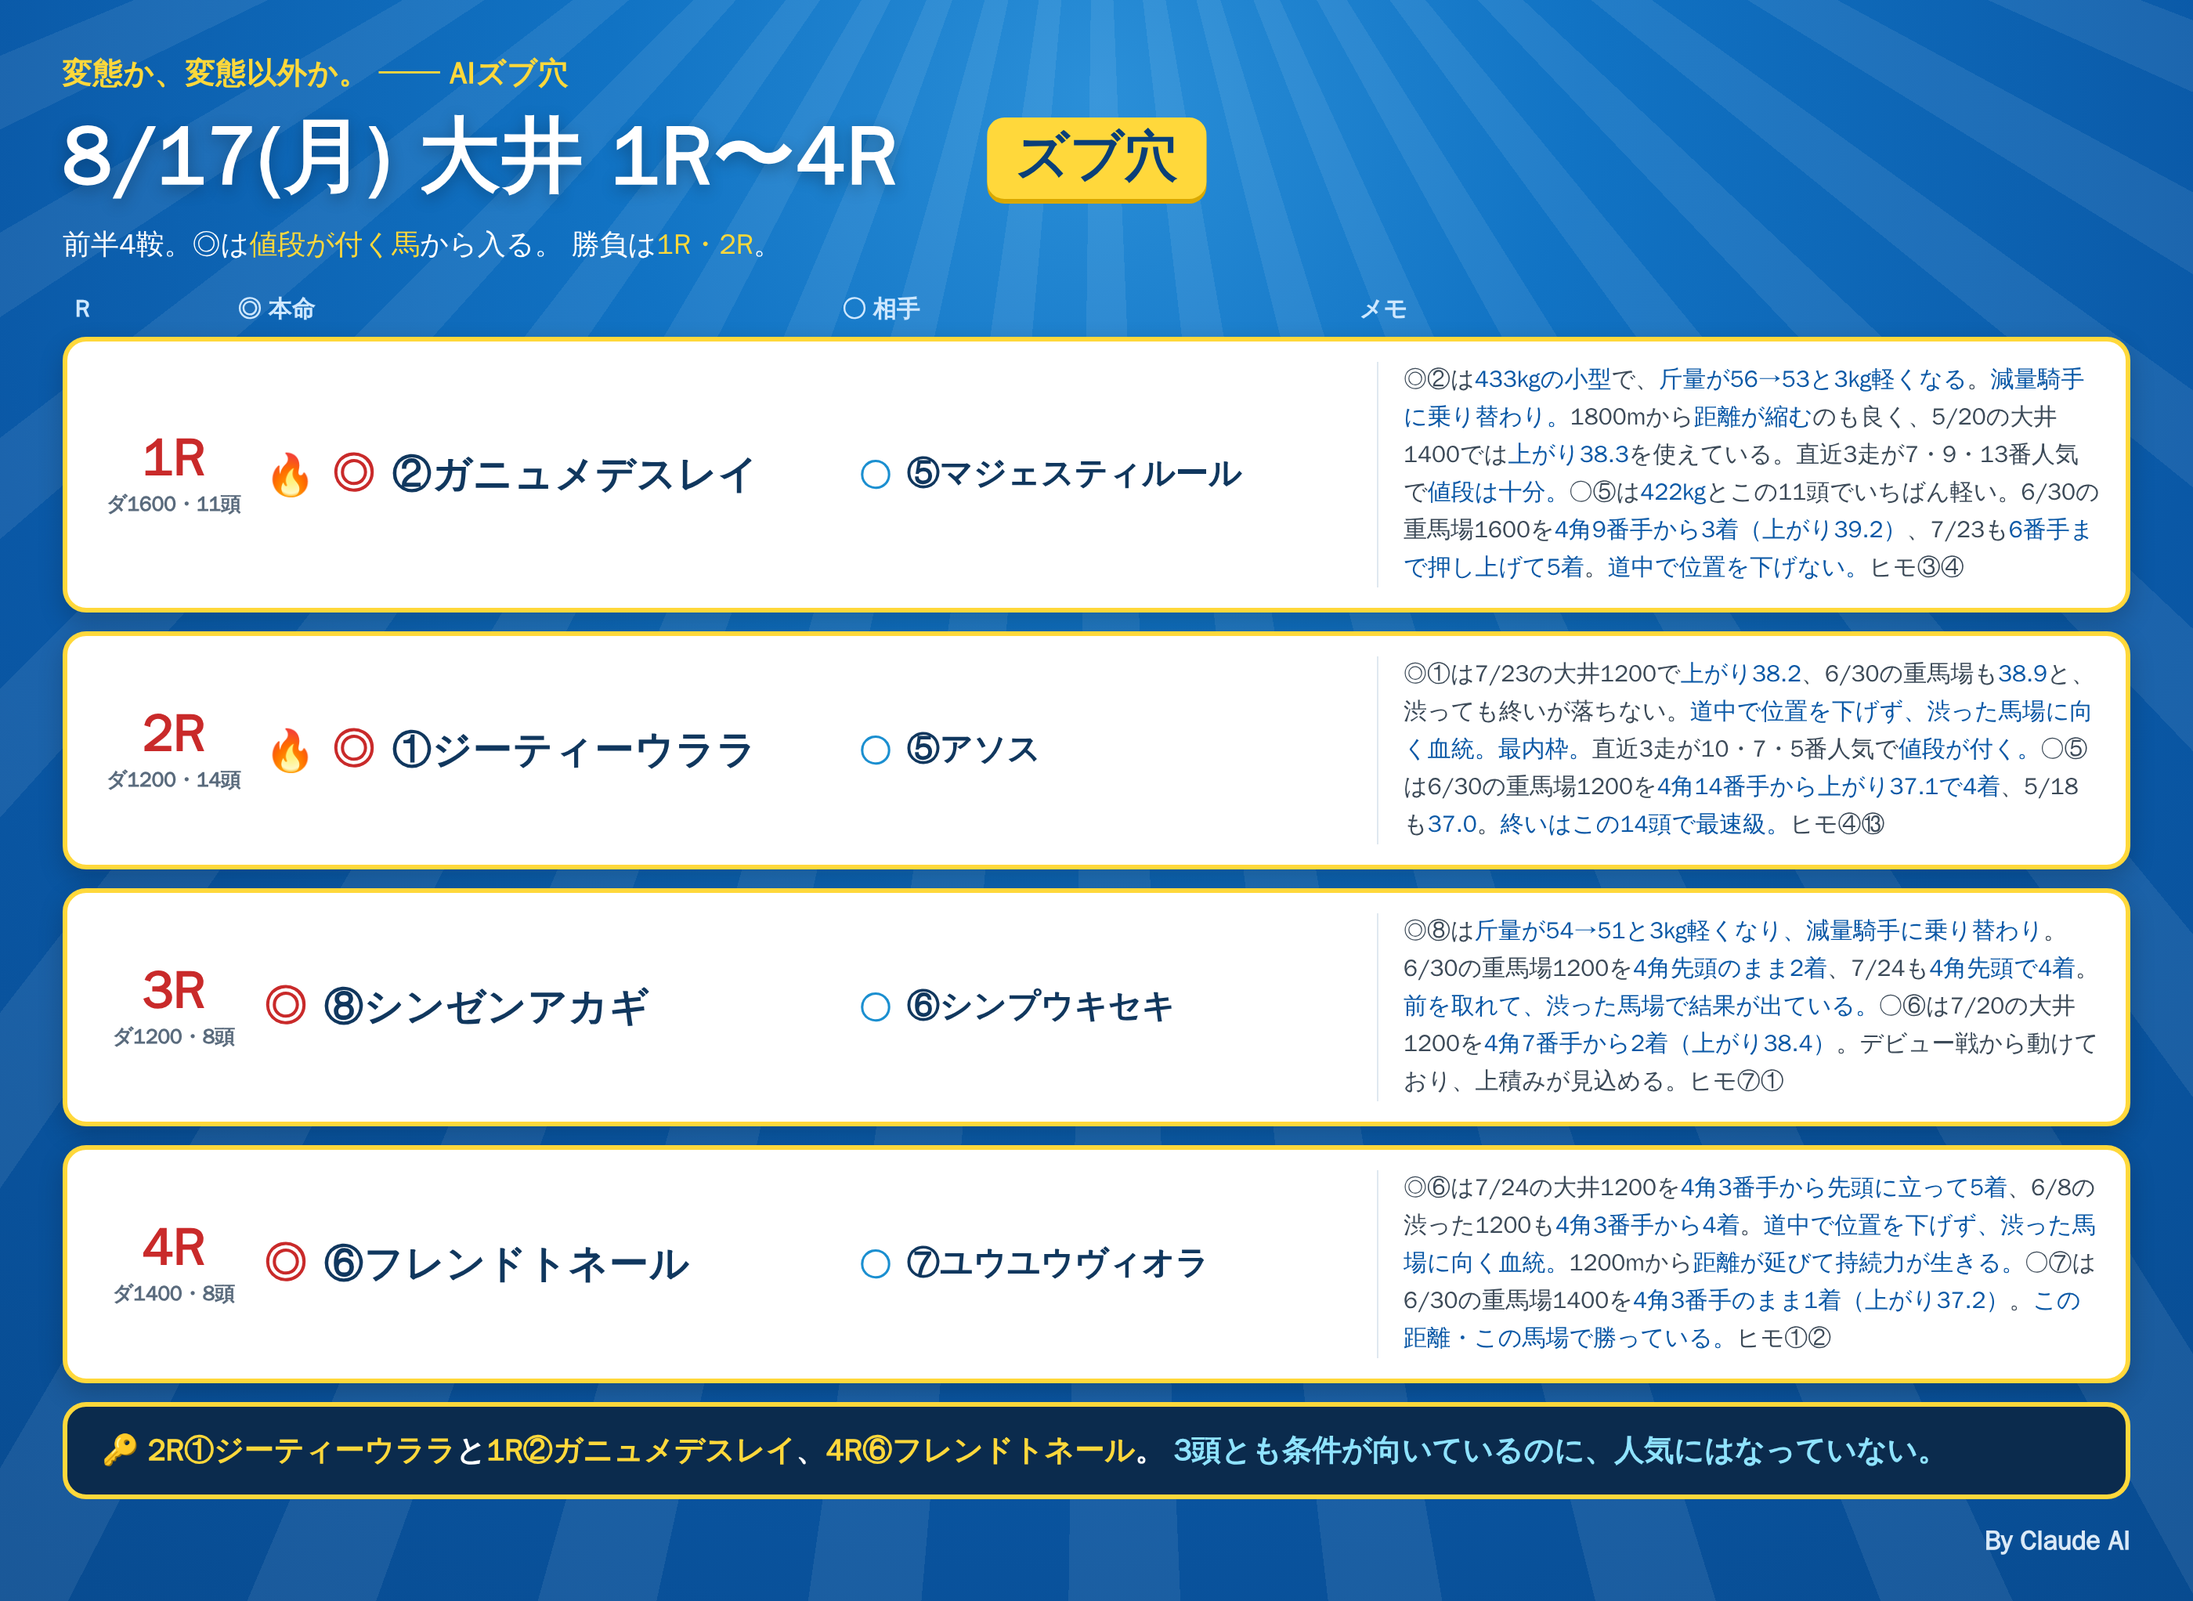
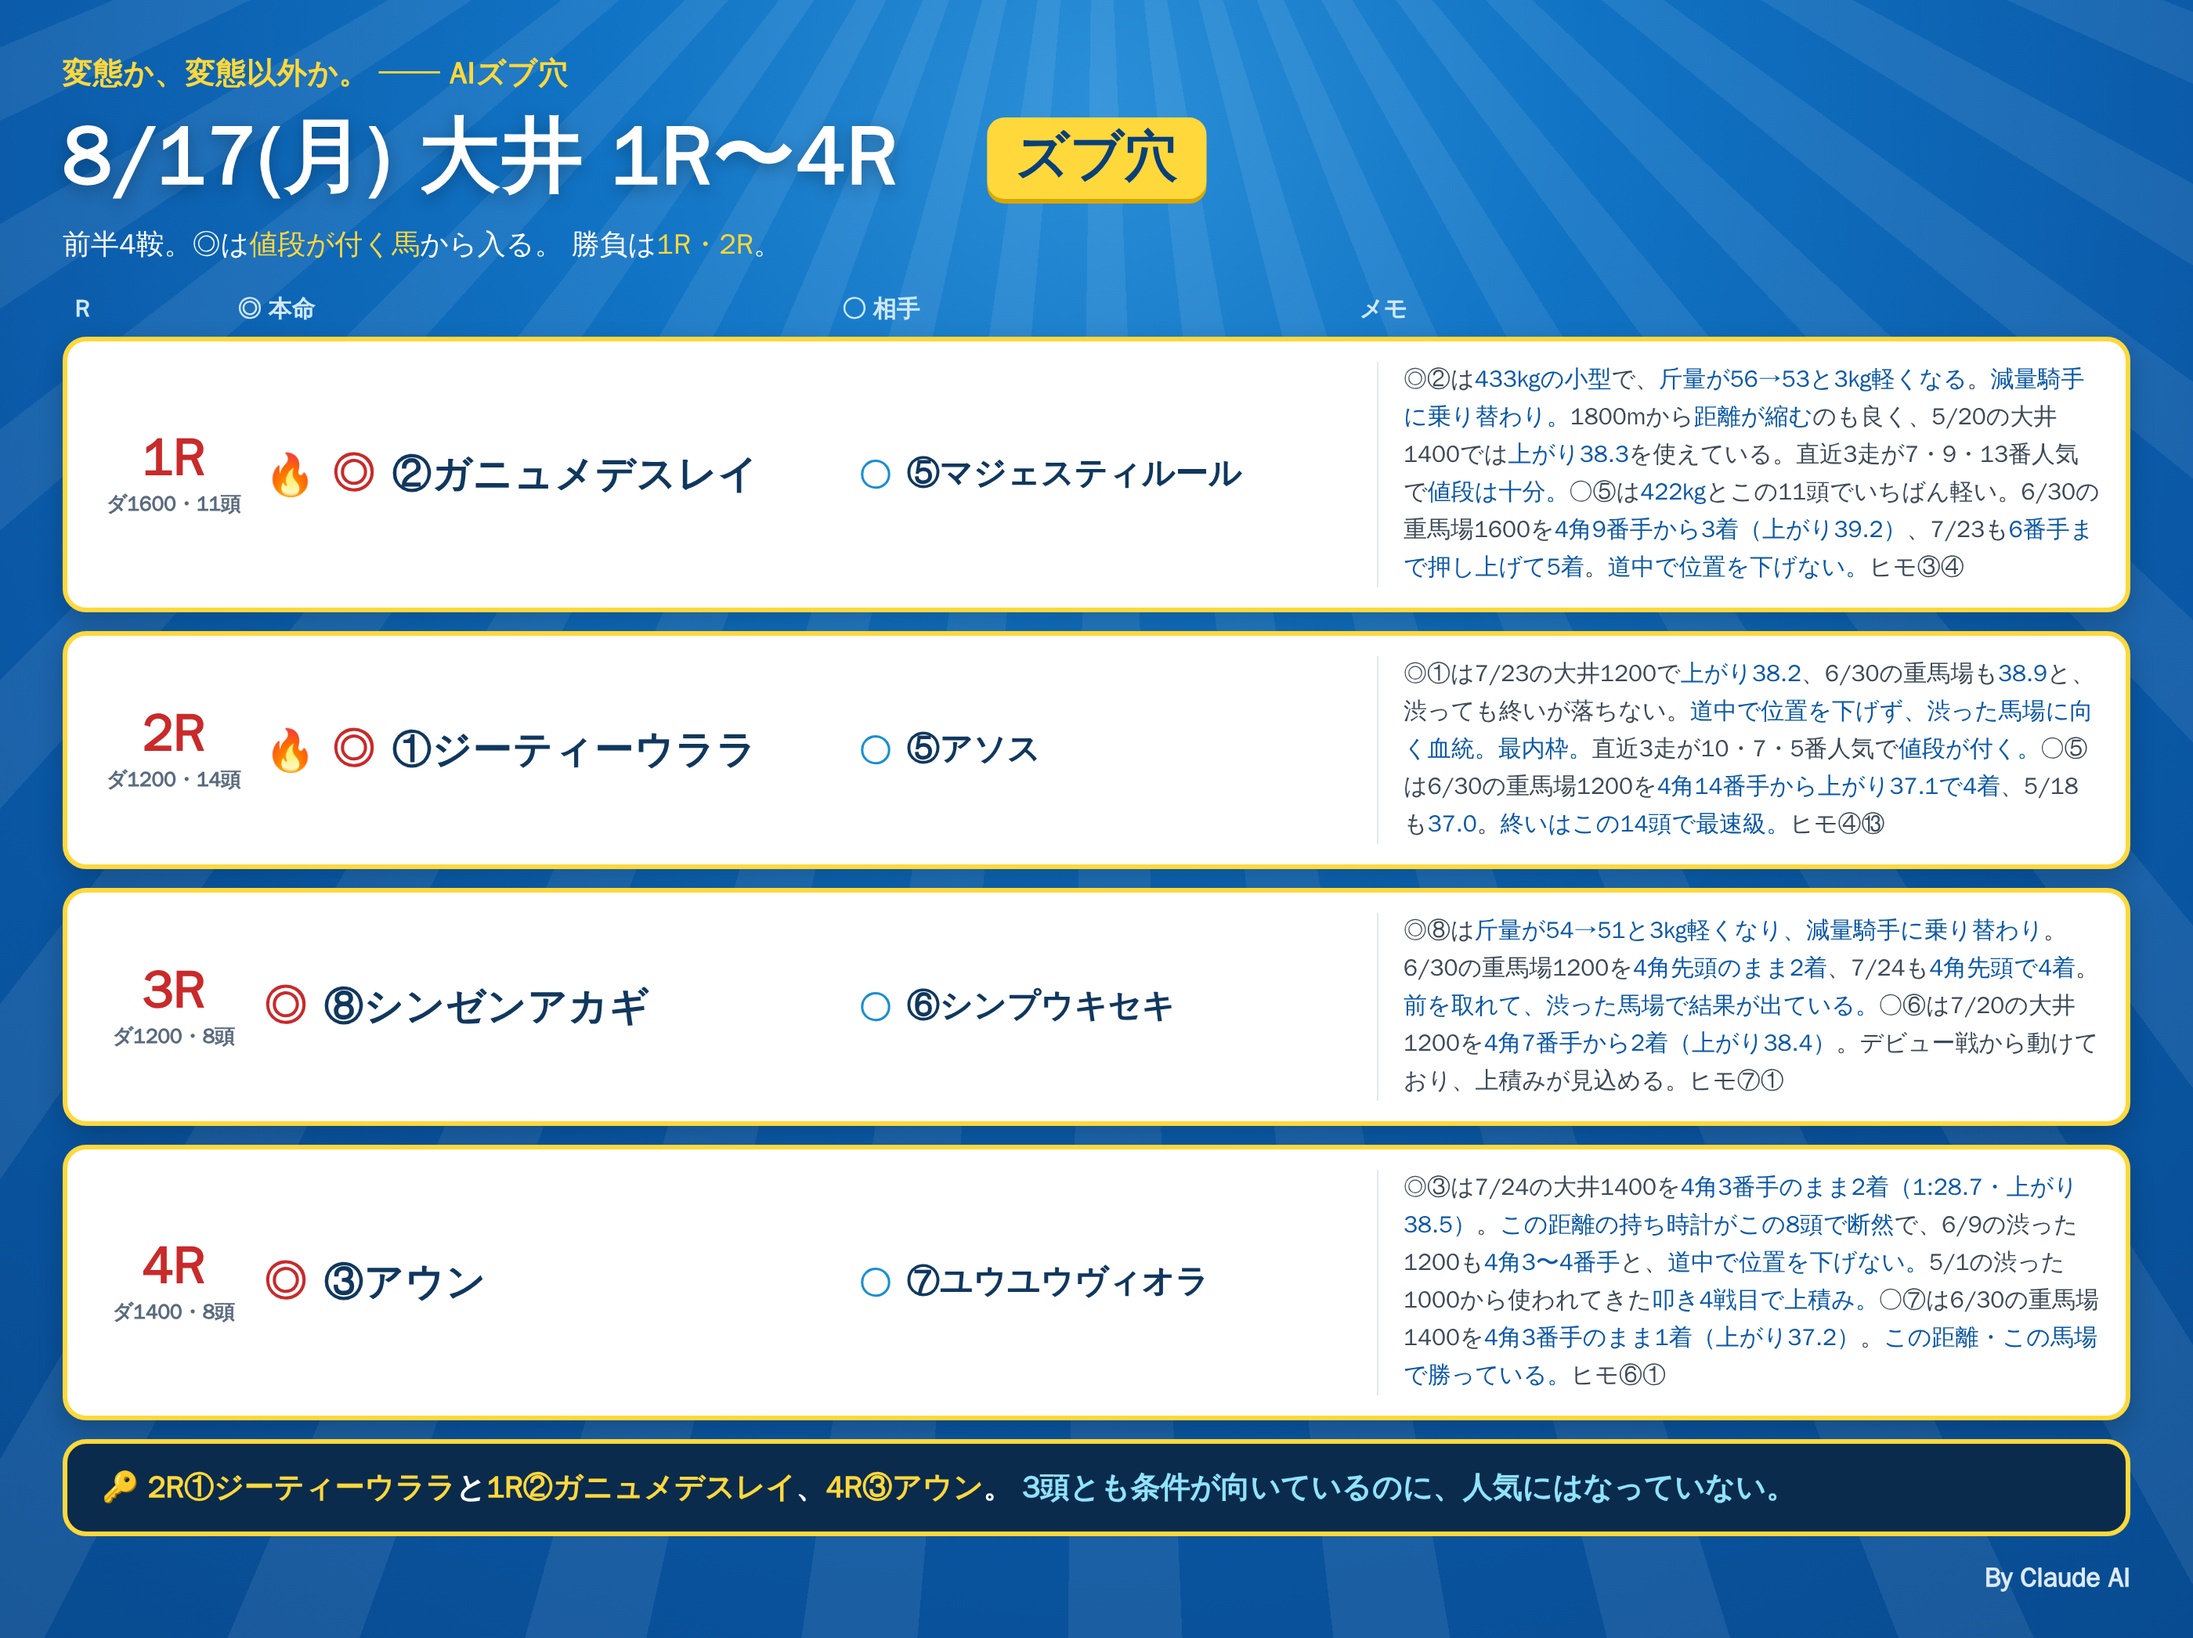
8/17大井 4R ◎を③アウンに変更

diff --git a/notes/live/2026-08-17/oi_1_4.html b/notes/live/2026-08-17/oi_1_4.html
@@ -73,14 +73,14 @@
 
   <div class="row">
     <div class="rN"><div class="n">4R</div><div class="d">ダ1400・8頭</div></div>
-    <div class="hm"><span class="mk">◎</span><span class="nm">⑥フレンドトネール</span></div>
+    <div class="hm"><span class="mk">◎</span><span class="nm">③アウン</span></div>
     <div class="at"><span class="mk2">○</span><span class="nm2">⑦ユウユウヴィオラ</span></div>
-    <div class="memo">◎⑥は7/24の大井1200を<b>4角3番手から先頭に立って5着</b>、6/8の渋った1200も<b>4角3番手から4着</b>。<b>道中で位置を下げず、渋った馬場に向く血統。</b>1200mから<b>距離が延びて持続力が生きる。</b>○⑦は6/30の重馬場1400を<b>4角3番手のまま1着（上がり37.2）</b>。<b>この距離・この馬場で勝っている。</b>ヒモ①②</div>
+    <div class="memo">◎③は7/24の大井1400を<b>4角3番手のまま2着（1:28.7・上がり38.5）</b>。<b>この距離の持ち時計がこの8頭で断然</b>で、6/9の渋った1200も<b>4角3〜4番手</b>と、<b>道中で位置を下げない。</b>5/1の渋った1000から使われてきた<b>叩き4戦目で上積み。</b>○⑦は6/30の重馬場1400を<b>4角3番手のまま1着（上がり37.2）</b>。<b>この距離・この馬場で勝っている。</b>ヒモ⑥①</div>
   </div>
 
   
 
-  <div class="foot">🔑 <span class="y">2R①ジーティーウララ</span>と<span class="y">1R②ガニュメデスレイ</span>、<span class="y">4R⑥フレンドトネール</span>。
+  <div class="foot">🔑 <span class="y">2R①ジーティーウララ</span>と<span class="y">1R②ガニュメデスレイ</span>、<span class="y">4R③アウン</span>。
   <span class="c">3頭とも条件が向いているのに、人気にはなっていない。</span></div>
   <div class="sig">By Claude AI</div>
 </div></div>
